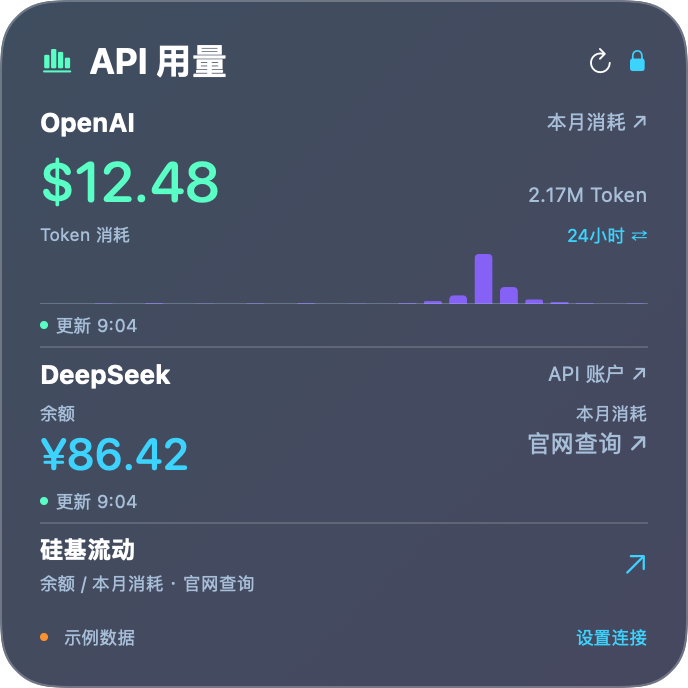
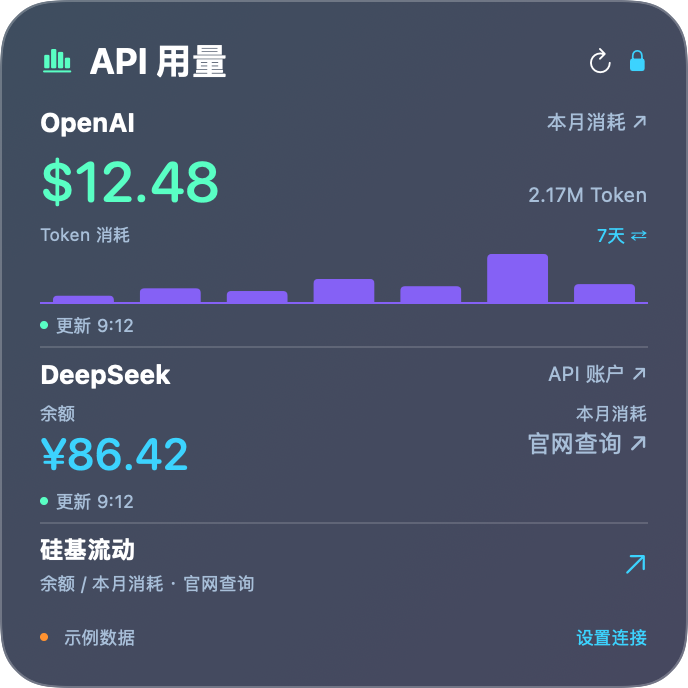
Match usage chart baseline to purple bars

diff --git a/projects/api-usage/Sources/CostChart.swift b/projects/api-usage/Sources/CostChart.swift
@@ -48,7 +48,7 @@ struct UsageBars: View {
                     BarMark(x: .value("时间", p.date, unit: range == "24h" ? .hour : .day), y: .value("Token", p.tokens))
                         .foregroundStyle(Color(red: 0.52, green: 0.38, blue: 0.96)).cornerRadius(2)
                 }.chartXAxis(.hidden).chartYAxis(.hidden).frame(height: height)
-                .overlay(alignment: .bottom) { Rectangle().fill(muted.opacity(0.35)).frame(height: 0.5).allowsHitTesting(false) }
+                .overlay(alignment: .bottom) { Rectangle().fill(Color(red: 0.52, green: 0.38, blue: 0.96)).frame(height: 1.2).allowsHitTesting(false) }
                 .chartYScale(domain: .automatic(includesZero: true))
                 .help("\(range == "24h" ? "24 小时（含当前未完整小时）" : "7 天（UTC，含今天）") · \(compact(record.value.reduce(0) { $0 + $1.tokens })) Token · 更新 \(record.date.formatted())")
                 if error != nil { Text("刷新失败 · 保留上次趋势").font(.system(size: 8)).foregroundStyle(.orange) }
